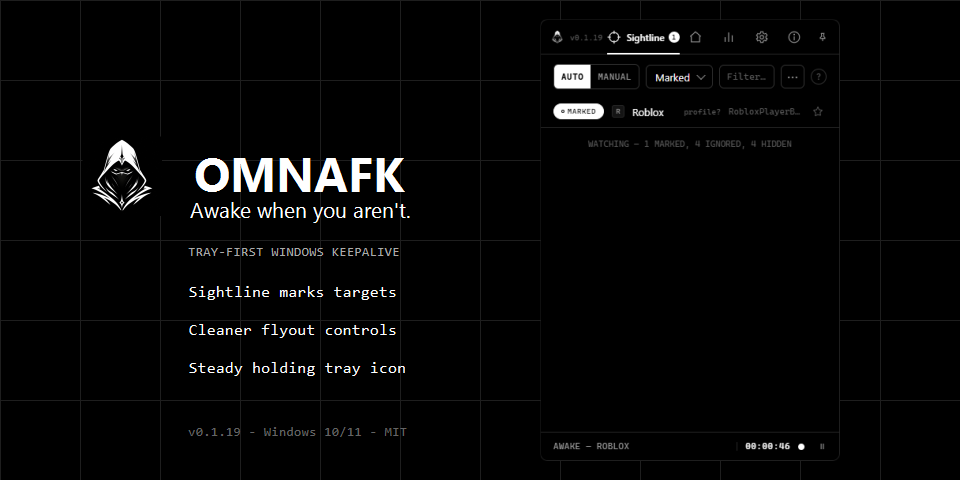
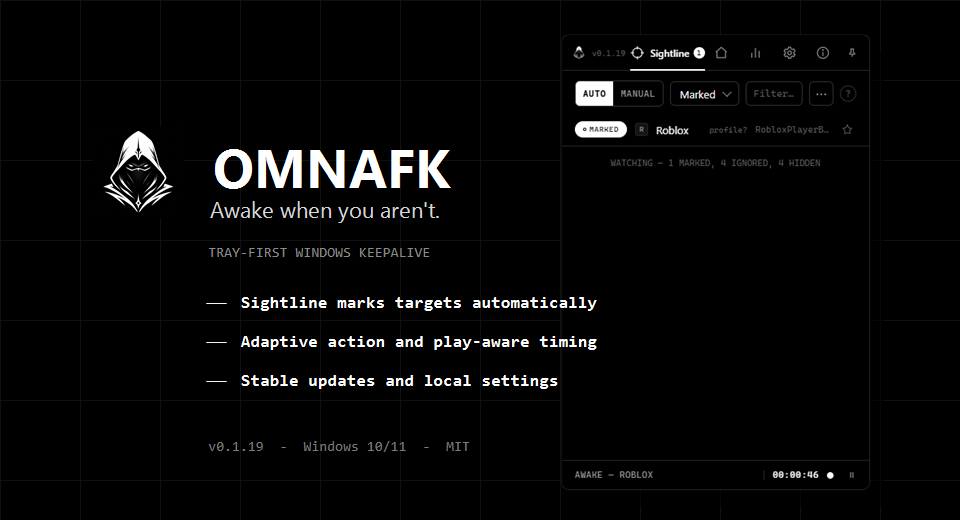
docs: clean up website and readme visuals

diff --git a/docs/index.html b/docs/index.html
@@ -106,6 +106,8 @@
   .eyebrow { margin: 0 0 14px; color: var(--faint); font: 700 11px var(--mono); letter-spacing: 0; text-transform: uppercase; }
   h2 { margin: 0 0 28px; font: 700 28px var(--mono); letter-spacing: 0; }
   .features { display: grid; grid-template-columns: repeat(auto-fit, minmax(190px, 1fr)); gap: 1px; background: var(--line); border: 1px solid var(--line); }
+  .behavior-grid { grid-template-columns: repeat(4, 1fr); }
+  .behavior-grid .feature:nth-last-child(3) { grid-column: span 2; }
   .feature { background: var(--surface); padding: 24px; min-height: 158px; }
   .feature h3 { margin: 0 0 12px; font: 700 13px var(--mono); letter-spacing: 0; }
   .feature p { margin: 0; color: var(--dim); line-height: 1.55; font-size: 14px; }
@@ -149,7 +151,8 @@
         #000;
     }
     .hero-copy { padding-top: 430px; padding-bottom: 62px; }
-    .features, .showcase, .quick, .app-grid, .flow, .guide-grid, .faq-grid, .control-list { grid-template-columns: 1fr; }
+    .features, .behavior-grid, .showcase, .quick, .app-grid, .flow, .guide-grid, .faq-grid, .control-list { grid-template-columns: 1fr; }
+    .behavior-grid .feature:nth-last-child(3) { grid-column: auto; }
     .quick a, .quick span { border-right: 0; border-bottom: 1px solid var(--line); justify-content: flex-start; }
     .quick :last-child { border-bottom: 0; }
     .nav-links { gap: 12px; font-size: 11px; }
@@ -199,7 +202,7 @@
     <div class="wrap">
       <p class="eyebrow">BEHAVIOR</p>
       <h2>Install it once. Let Sightline watch.</h2>
-      <div class="features">
+      <div class="features behavior-grid">
         <article class="feature">
           <h3>SIGHTLINE</h3>
           <p>No start button. OMNAFK marks game-like windows, shows why they were detected, and keeps rescan, test, sort, and cleanup actions in one compact menu.</p>